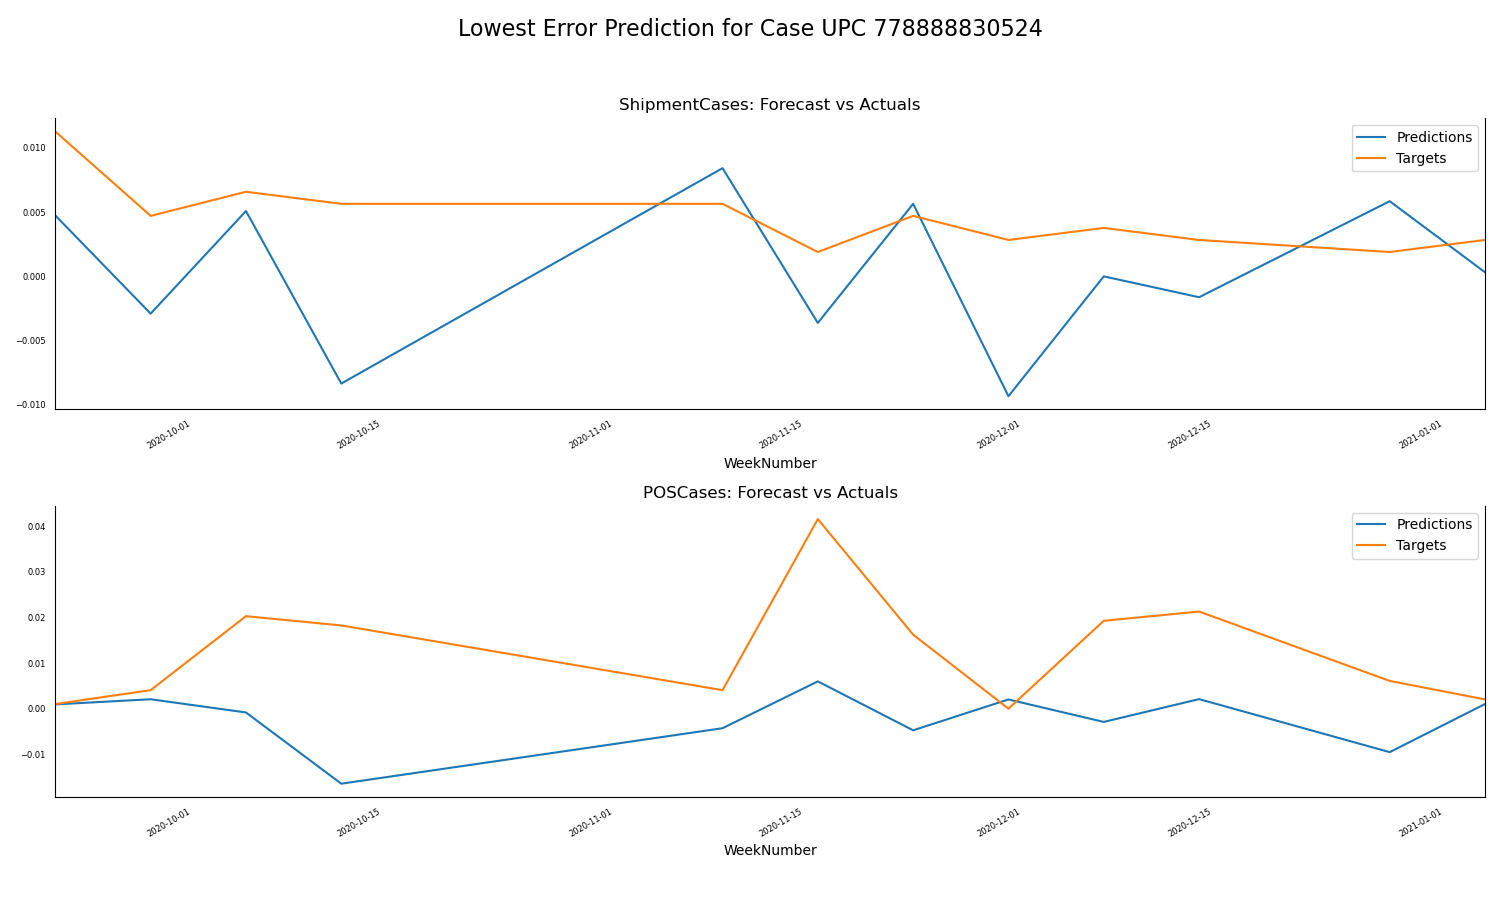
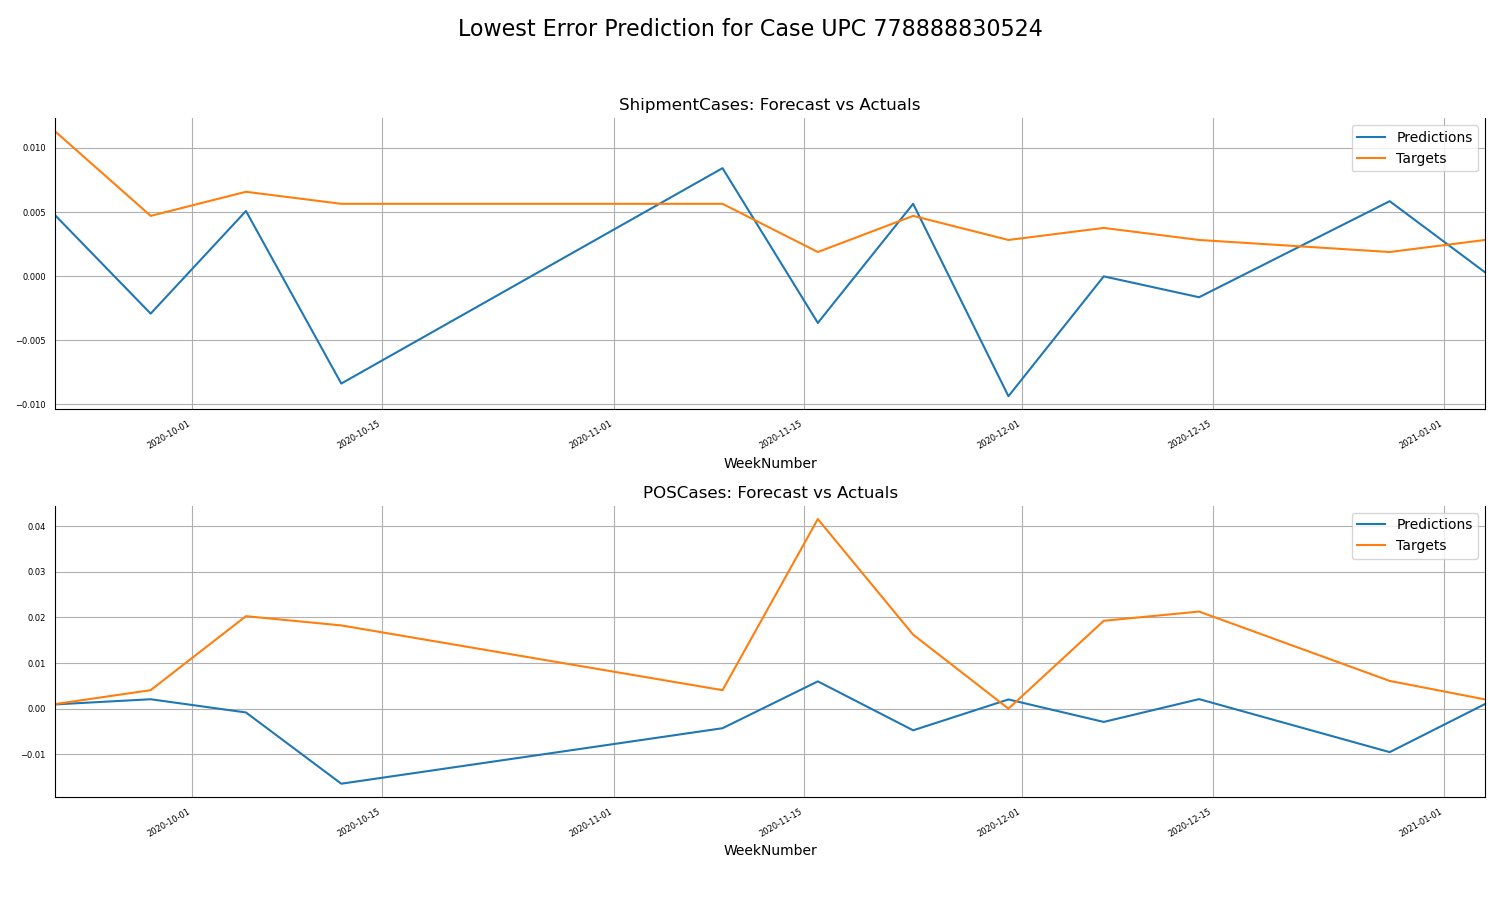
grid added to var figures

diff --git a/VAR.py b/VAR.py
@@ -115,6 +115,7 @@ if __name__ == "__main__":
         ax.yaxis.set_ticks_position('none')
         ax.spines["top"].set_alpha(0)
         ax.tick_params(labelsize=6)
+        ax.grid(True)
 
     plt.suptitle("Lowest Error Prediction for Case UPC {}".format(best_case), fontsize=16)
     fig.tight_layout(rect=[0, 0.03, 1, 0.95])  # [left, bottom, right, top]
@@ -151,6 +152,7 @@ if __name__ == "__main__":
         ax.yaxis.set_ticks_position('none')
         ax.spines["top"].set_alpha(0)
         ax.tick_params(labelsize=6)
+        ax.grid(True)
 
     plt.suptitle("Lowest Error Prediction For Category {}".format(best_case), fontsize=16)
     fig.tight_layout(rect=[0, 0.03, 1, 0.95])  # [left, bottom, right, top]
